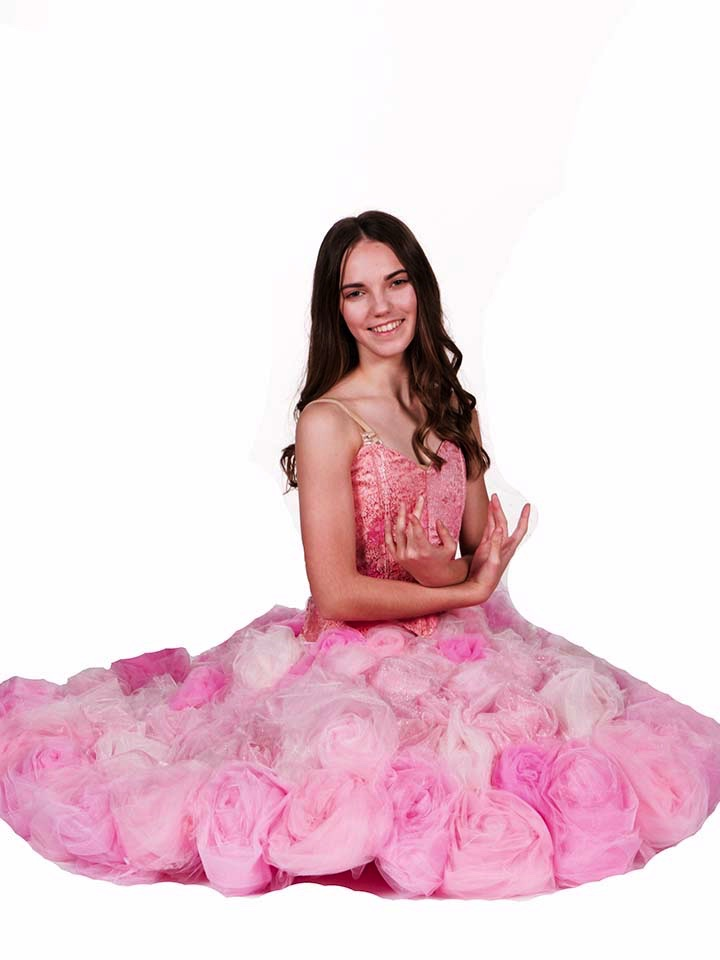
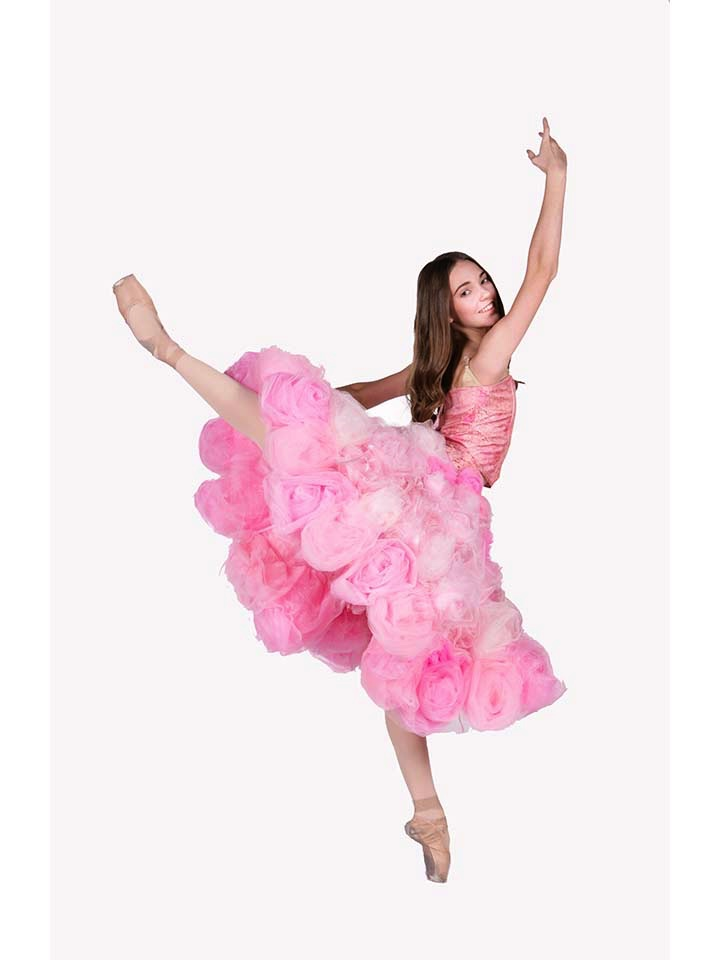
more images

diff --git a/index.html b/index.html
@@ -72,23 +72,35 @@
 					<!-- Gallery  -->
 						<div class="gallery">
 							<article class="from-left">
-								<a href="images/fulls/01.jpg" class="image fit"><img src="images/thumbs/01.jpg" title="Vel Venenatis Cep" alt="" /></a>
+								<img class="image fit" src="images/thumbs/01.jpg" title="Vel Venenatis Cep" alt="" /></a>
 							</article>
 							<article class="from-right">
-								<a href="images/fulls/02.jpg" class="image fit"><img src="images/thumbs/02.jpg" title="Pellentesque at" alt="" /></a>
+								<img class="image fit" src="images/thumbs/02.jpg" title="Pellentesque at" alt="" /></a>
 							</article>
 							<article class="from-left">
-								<a href="images/fulls/03.jpg" class="image fit"><img src="images/thumbs/03.jpg" title="Cep Aenean" alt="" /></a>
+								<img class="image fit" src="images/thumbs/03.jpg" title="Cep Aenean" alt="" /></a>
 							</article>
 							<article class="from-right">
-								<a href="images/fulls/04.jpg" class="image fit"><img src="images/thumbs/04.jpg" title="Augue ut" alt="" /></a>
+								<img class="image fit" src="images/thumbs/04.jpg" title="Augue ut" alt="" /></a>
 							</article>
 							<article class="from-left">
-								<a href="images/fulls/05.jpg" class="image fit"><img src="images/thumbs/05.jpg" title="Sit porttitor magna" alt="" /></a>
+								<img class="image fit" src="images/thumbs/05.jpg" title="Sit porttitor magna" alt="" /></a>
 							</article>
 							<article class="from-right">
-								<a href="images/fulls/06.jpg" class="image fit"><img src="images/thumbs/06.jpg" title="Nibh ut" alt="" /></a>
+								<img class="image fit" src="images/thumbs/06.jpg" title="Nibh ut" alt="" /></a>
 							</article>
+							<article class="from-right">
+									<img class="image fit" src="images/thumbs/07.jpg" title="Nibh ut" alt="" /></a>
+								</article>
+								<article class="from-right">
+										<img class="image fit" src="images/thumbs/08.jpg" title="Nibh ut" alt="" /></a>
+									</article>
+									<article class="from-right">
+											<img class="image fit" src="images/thumbs/09.jpg" title="Nibh ut" alt="" /></a>
+										</article>
+										<article class="from-right">
+												<img class="image fit" src="images/thumbs/10.jpg" title="Nibh ut" alt="" /></a>
+											</article>
 						</div>
 
 				</div>
